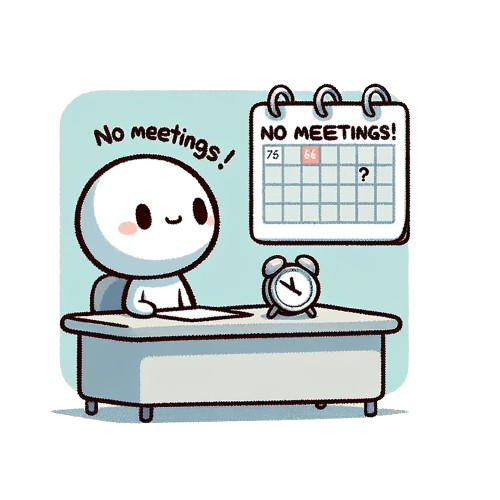
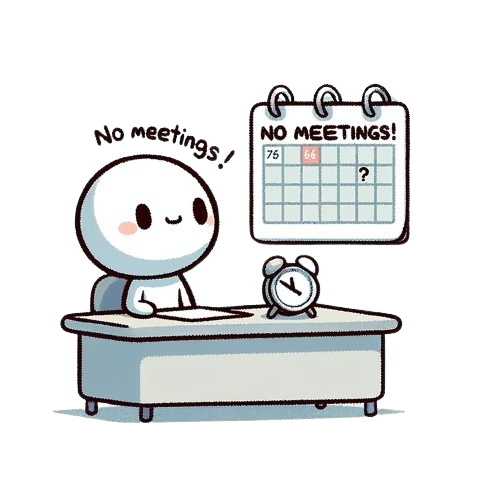
tiny updates

Changed region(s): [[0.12, 0.15, 0.84, 0.84]]

diff --git a/src/components/meeting/meeting-list.tsx b/src/components/meeting/meeting-list.tsx
@@ -12,10 +12,10 @@ export const MeetingList = ({ dialogueId }: { dialogueId: string }) => {
       <div className="flex items-center justify-center p-6">
         <Image
           src="/img/no-meetings.png"
-          width={275}
-          height={275}
+          width={325}
+          height={325}
           alt="No meetings"
-          className="antialiased opacity-30 saturate-0"
+          className="antialiased opacity-50 saturate-0"
         />
       </div>
     );

diff --git a/src/components/meeting/meeting-item.tsx b/src/components/meeting/meeting-item.tsx
@@ -9,7 +9,6 @@ import {
   CollapsibleContent,
   CollapsibleTrigger,
 } from "../ui/collapsible";
-import { Separator } from "../ui/separator";
 import { Button } from "../ui";
 import { Ellipsis, MessageSquareText, Trash } from "lucide-react";
 import {
